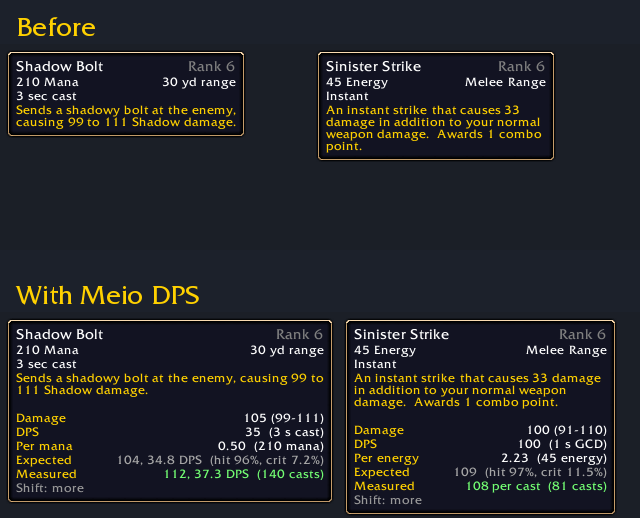
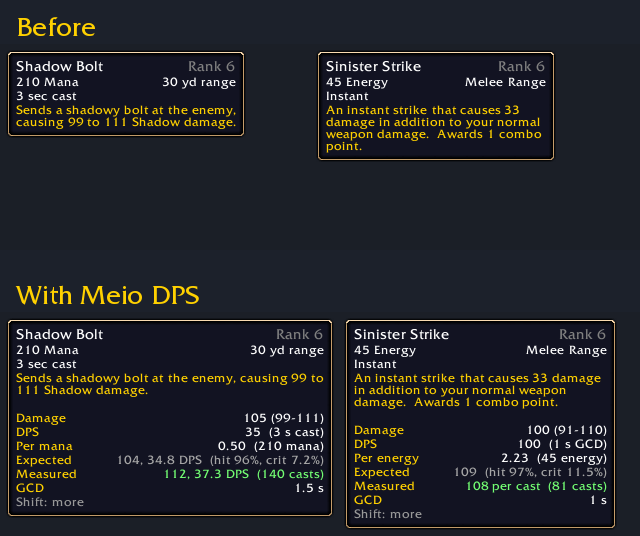
1.3.0: GCD line on every spell and ability

Changed region(s): [[0.0, 0.5251, 0.9688, 1.0], [0.5, 0.0927, 0.875, 0.3089], [0.0, 0.0309, 0.375, 0.278]]

diff --git a/README.md b/README.md
@@ -6,8 +6,8 @@ and what it really hit for in your fights.
 For WoW Forever.
 
 ![Shadow Bolt and Sinister Strike tooltips: before, only the game's text; with Meio DPS,
-damage, DPS, damage per mana or energy, expected damage and the measured damage per
-cast](docs/before-after.png)
+damage, DPS, damage per mana or energy, expected damage, the measured damage per cast and
+the GCD](docs/before-after.png)
 
 ## What it does
 
@@ -21,6 +21,8 @@ really did.
 - Attack, Auto Shot and wand Shoot: damage per swing or shot, and DPS
 - Weapons: their DPS with your attack power
 - Measured: real damage per cast from Blizzard's damage meter
+- GCD on every spell and ability: the global cooldown it starts, or none (handy for
+  macros)
 - Action buttons, off by default: each damage spell's damage per cast on its button (or
   measured, or DPS), on Blizzard's bars, Bartender4, ElvUI and Dominos. Turn on with
   `/meiodps buttons on` or Settings > Action buttons

diff --git a/CHANGELOG.md b/CHANGELOG.md
@@ -1,5 +1,11 @@
 # Meio DPS
 
+## 1.3.0
+
+- GCD line on every spell and ability: the global cooldown it starts (1.5 s, 1 s for
+  rogues' attacks), or "none" for one you can use straight after another, handy for
+  macros. From the game's own spell data. Off with `/meiodps gcd` or Settings > GCD
+
 ## 1.2.0
 
 - Damage on action buttons is now off by default. This update turns it off once for
